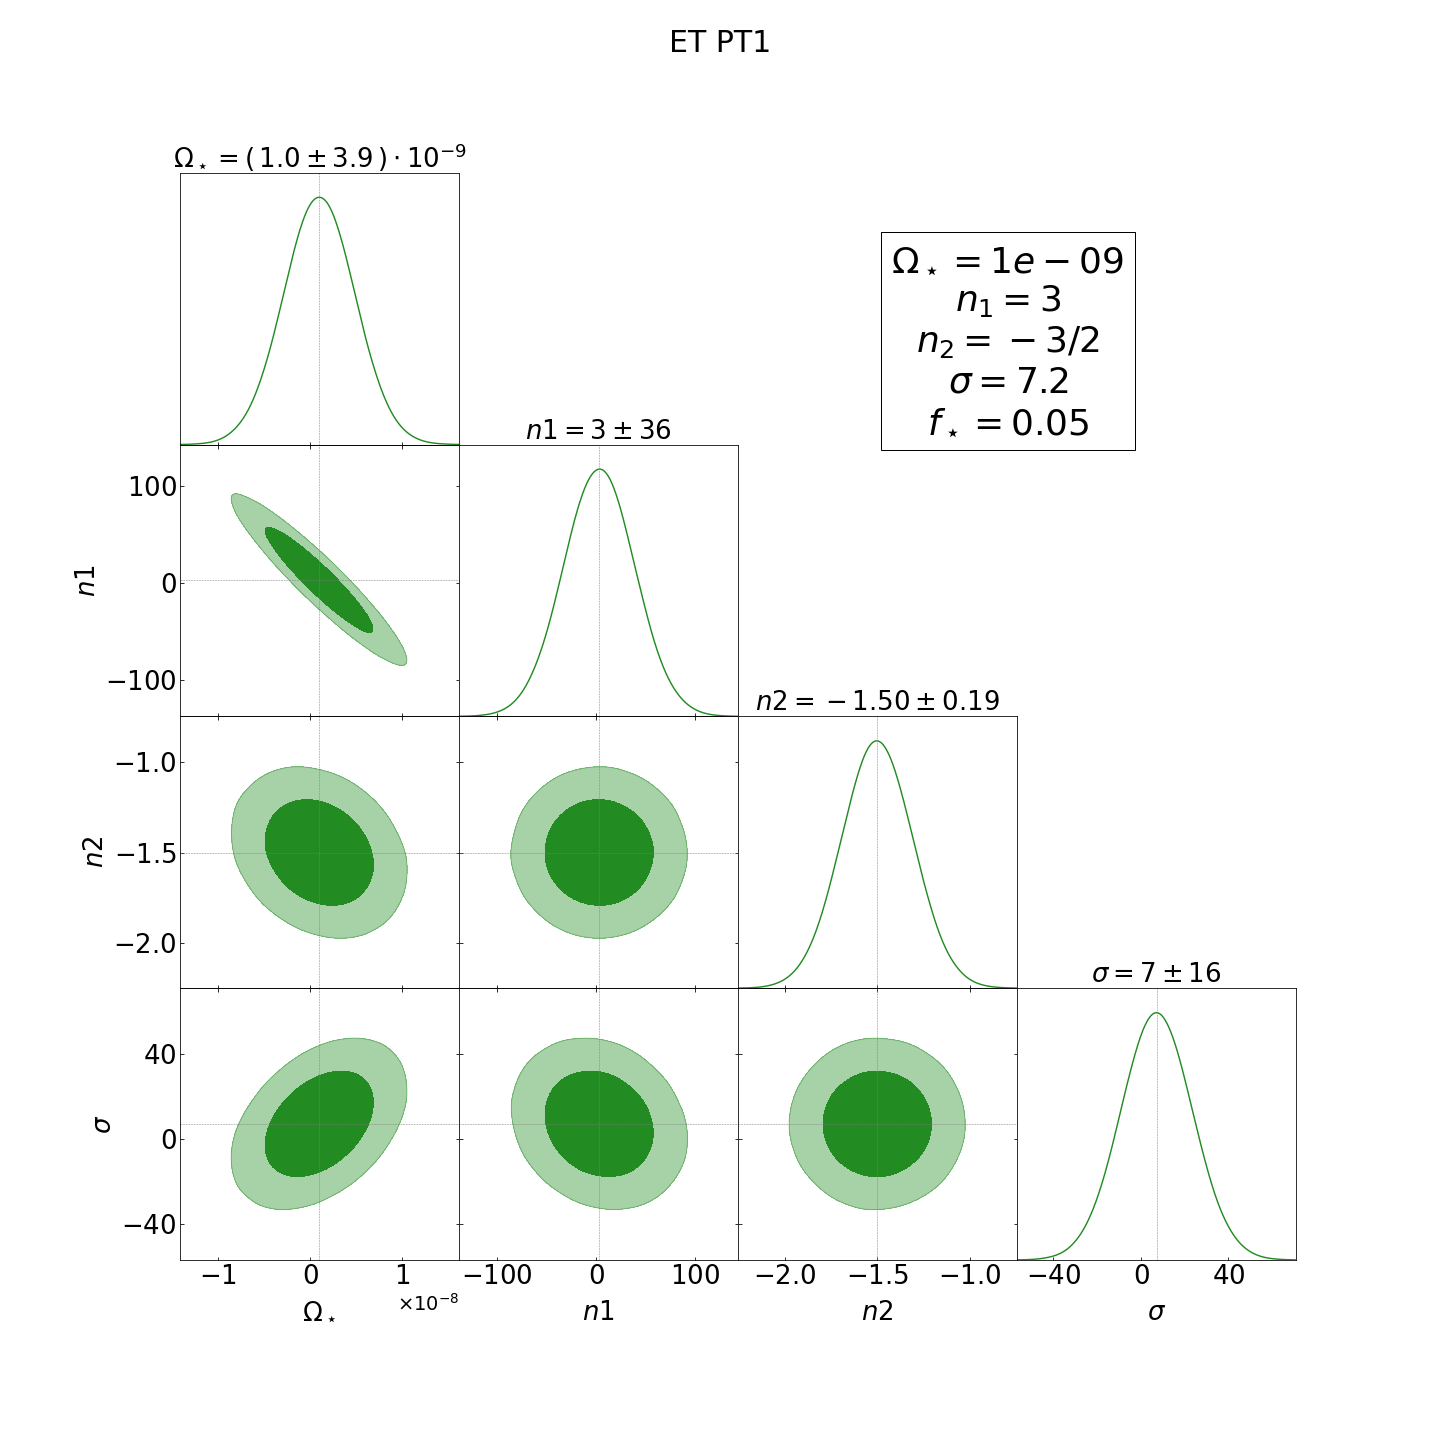
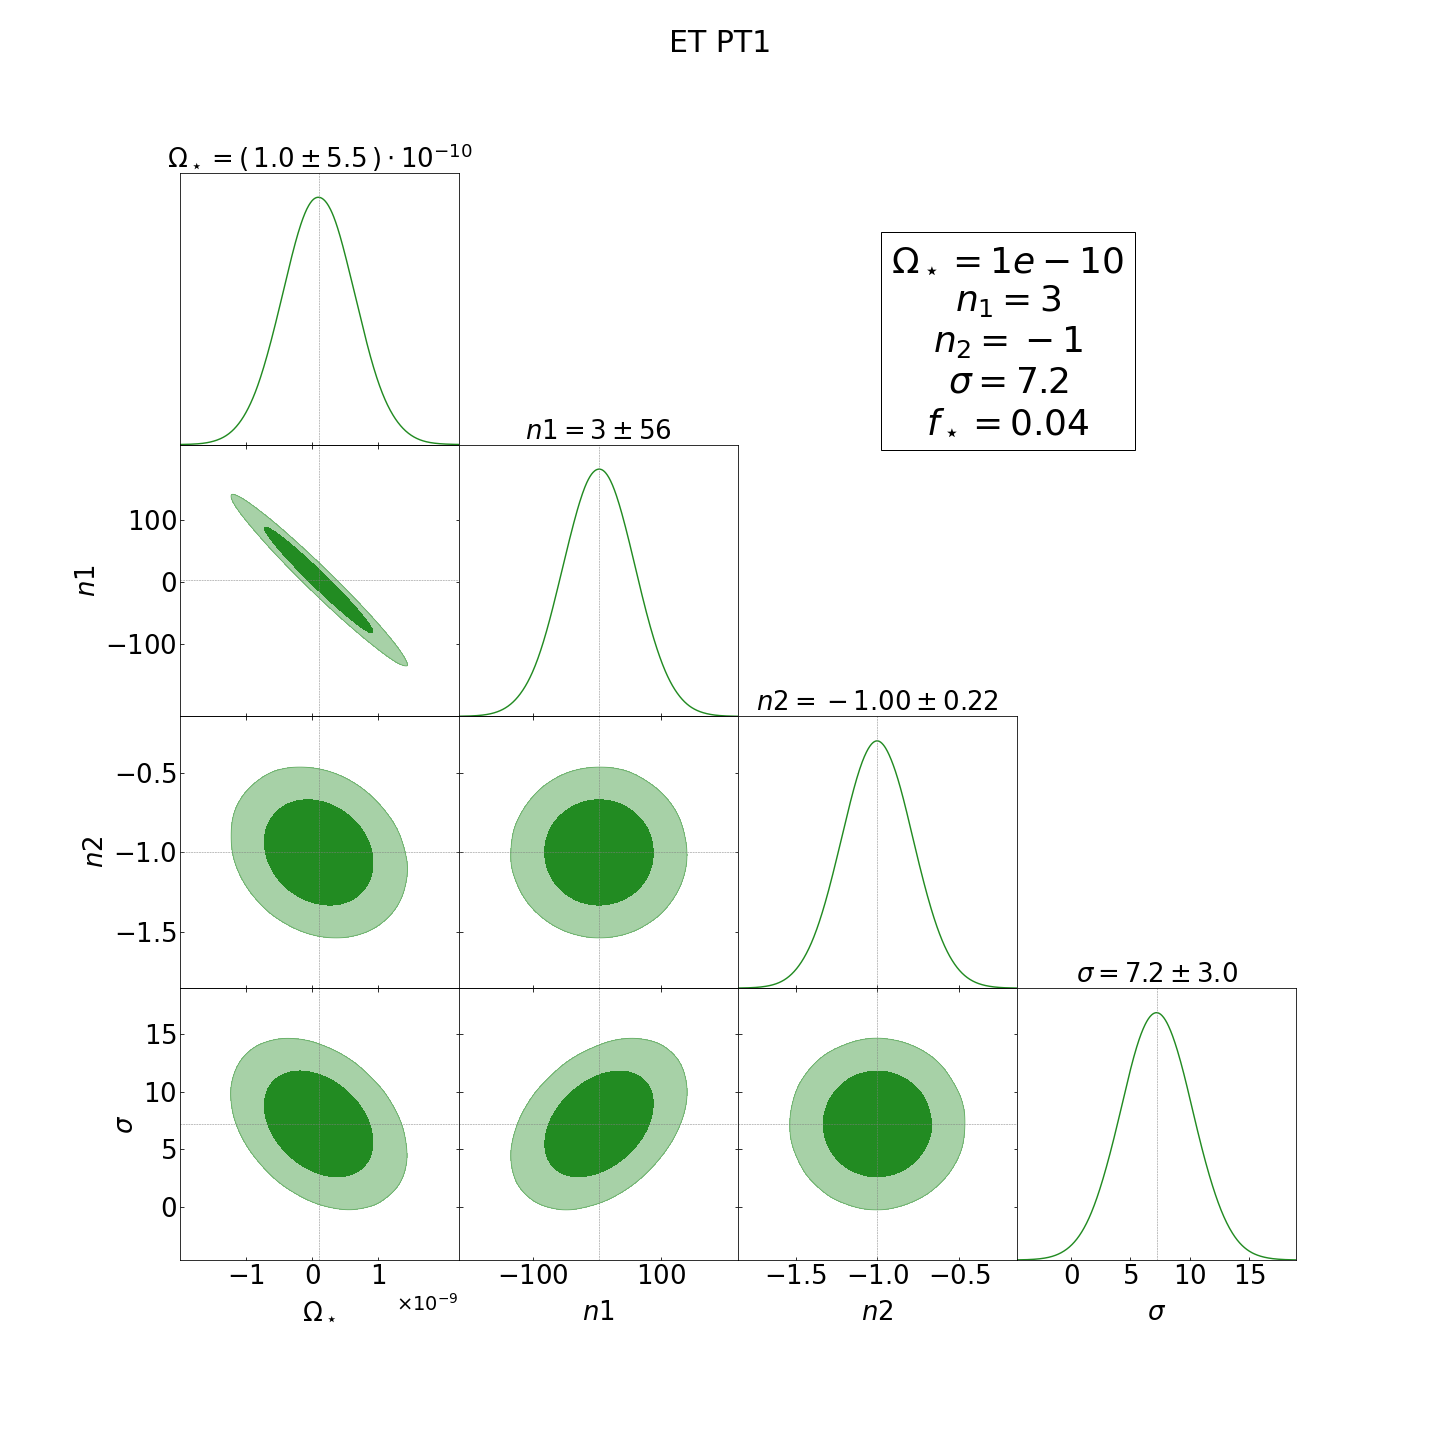
finalised ?

diff --git a/Fisher/oldlogfish.py b/Fisher/oldlogfish.py
@@ -175,12 +175,12 @@ plt.savefig('/Users/alisha/Documents/LISA_ET/Fisher graphs/FISHER_LISA_{fl}2.png
 
 def sigp(f):
     f0 = 1
-    t1 = ((9.0*((f/f0)**(-30.0))) + (5.5e-6*((f/f0)**(-4.5e0))) +(0.28e-11*((f/f0)**3.2)))*(0.5-0.5*(np.tanh(0.06*((f/f0)-42.0))))
-    t2 = ((0.01e-11*((f/f0)**(1.9))) + (20.0e-13*((f/f0)**(2.8))))*0.5*(np.tanh(0.06*((f/f0)-42.0)))
-    t3 = 1.0-(0.475*np.exp(-(((f/f0)-25.0)**2.0)/50.0))
-    t4 = 1.0-(5.0e-4*np.exp(-(((f/f0)-20.0)**2.0)/100.0))
-    t5 = 1.0-(0.2*np.exp(-((((f/f0)-47.0)**2.0)**0.85)/100.0))
-    t6 = 1.0-(0.12*np.exp(-((((f/f0)-50.0)**2.0)**0.7)/100.0))-(0.2*np.exp(-(((f/f0)-45.0)**2.0)/250.0))+(0.15*np.exp(-(((f/f0)-85.0)**2.0)/400.0))
+    t1 = ((9.0*((f/f0)**(-30.0))) + (5.5e-6*((f/f0)**(-4.5))) +(28e-13*((f/f0)**3.2)))*(0.5-0.5*(np.tanh(0.06*((f/f0)-42))))
+    t2 = ((1e-13*((f/f0)**(1.9))) + (20e-13*((f/f0)**(2.8))))*0.5*(np.tanh(0.06*((f/f0)-42)))
+    t3 = 1-(0.475*np.exp(-(((f/f0)-25)**2)/50))
+    t4 = 1-(5e-4*np.exp(-(((f/f0)-20)**2)/100))
+    t5 = 1-(0.2*np.exp(-((((f/f0)-47)**2.0)**0.85)/100))
+    t6 = 1-(0.12*np.exp(-((((f/f0)-50)**2.0)**0.7)/100))-(0.2*np.exp(-(((f/f0)-45)**2)/250))+(0.15*np.exp(-(((f/f0)-85)**2.0)/400))
     res = 0.88*(t1+t2)*t3*t4*t5*t6
     return 0.816**2 * res
 

diff --git a/Fisher/fisherPT.py b/Fisher/fisherPT.py
@@ -57,18 +57,18 @@ file = "PT"
 # file = "CS"
 
 #case 1
-o1 = 1e-9
+o1 = 1e-10
 n1 = 3
-n2 = -1.5
+n2 = -1
 s1 = 7.2
-fstar = 0.05
+fstar = 0.04
 
 #case 2
-o2 = 1e-7
-nom1 = 5
-nom2 = -5
-s2 = 1.8
-fbreak = 0.3
+o2 = 1e-8
+nom1 = 2.4
+nom2 = -2.4
+s2 = 1.2
+fbreak = 0.2
 
 
 props = dict(boxstyle='square', facecolor='white', alpha=1)
@@ -76,14 +76,14 @@ txt = 36
 textstr1 = '\n'.join((
     r'$\Omega_\star = {om}$'.format(om = o1),
     r'$n_1 = {n1}$'.format(n1 = n1),
-    r'$n_2 = {n2}$'.format(n2 = Fraction(n2).limit_denominator()),
+    r'$n_2 = {n2}$'.format(n2 = n2), #Fraction(n2).limit_denominator()),
     r'$\sigma = {s}$'.format(s = s1),
     r'$f_\star = {fs}$'.format(fs = fstar)))
 
 textstr2 = '\n'.join((
     r'$\Omega_\star = {om}$'.format(om = o2),
     r'$n_1 = {n1}$'.format(n1 = nom1),
-    r'$n_2 = {n2}$'.format(n2 = Fraction(nom2).limit_denominator()),
+    r'$n_2 = {n2}$'.format(n2 = nom2), #Fraction(nom2).limit_denominator()),
     r'$\sigma = {s}$'.format(s = s2),
     r'$f_\star = {fs}$'.format(fs = fbreak)))
 

diff --git a/tests.py b/tests.py
@@ -342,10 +342,10 @@ plt.show()
 #%%
 
 def bpls(f):
-    om = 1e-9
+    om = 2e-10
     n1 = 3
-    n2 = -3/2
-    fstar = 0.07
+    n2 = -1
+    fstar = 0.04
     s = 7.2
     res = om*(f/fstar)**n1 * (1/2+(1/2)*(f/fstar)**s)**(-(n1-n2)/s)
     return res
